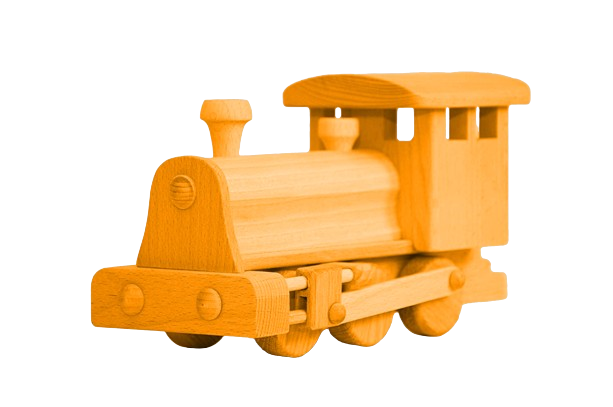
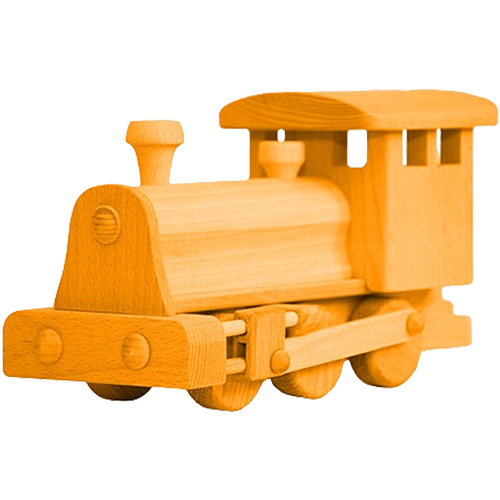
added cart and fixed pictures

diff --git a/script.js b/script.js
@@ -4,8 +4,8 @@ const toyOptions = [
         age: "Toddlers",
         Measure: "3.5H x 7L x 7W.",
         biography: "Soar through imaginative skies with this classic wooden airplane. Handcrafted from sustainable Baltic birch wood with a safe, natural harvest finish and a spinning propeller.",
-        imageURLs: ["imgs/pinkplane.png", "imgs/orangeplane.png", "imgs/purpleplane.png"],
-        price: "$15.99"
+        imageURLs: ["imgs/pinkplane.png", "imgs/orangeplane2.png", "imgs/purpleplane.png"],
+        price: 15.99
     },
     {
         name: "Wooden Train Set",
@@ -13,7 +13,7 @@ const toyOptions = [
         Measure: "Large size (84cm L x 11cm H x 13cm W)",
         biography: "Embark on a charming journey with this beautiful handcrafted wooden train set. Engine and three interchangeable cars boast intricate details made from real beech wood with moving wheels and a fully ecological design",
         imageURLs: ["imgs/pinktrain.png", "imgs/orangetrain.png", "imgs/purpletrain.png"],
-        price: "$15.99"
+        price: 15.99
     },
     {
         name: "Wooden Boat",
@@ -21,7 +21,7 @@ const toyOptions = [
         Measure: "10.5 inch W x 3.5 inch H.",
         biography: "Set sail for bathtub adventures with this adorable wooden boat. Made from solid Maine white pine, this handcrafted toy floats and features rounded edges for safety. Includes two peg lobster people.",
         imageURLs: ["imgs/pinkboat.png", "imgs/redboat.png", "imgs/purpleboat.png"],
-        price: "$15.99"
+        price: 15.99
     },
     {
         name: "Wooden Block Set",
@@ -29,16 +29,19 @@ const toyOptions = [
         Measure: "13” L x 12” W x 2” H",
         biography: "Build creativity and imagination with this high-quality, 72-piece block set. Made from naturally finished and smooth-sanded hardwood blocks, this set comes in a convenient wooden storage crate",
         imageURLs: ["imgs/pinkblocks.png", "imgs/greenblocks.png", "imgs/purpleblocks.png"],
-        price: "$20.00"
+        price: 20.00
     },
     {
         name: "Wooden Car",
         age: "All ages",
         biography: "This heirloom-quality wooden car is a timeless treasure. Handcrafted from domestic and exotic hardwoods with a clear lacquer finish, this unique car will inspire generations of imaginative play. Please note potential choking hazards for small children.",
         imageURLs: ["imgs/pinkcar.png", "imgs/redcar.png", "imgs/purplecar.png"],
-        price: "$9.99"
+        price: 9.99
     },
 ];
+
+let cart = [];
+let total = 0;
 
 function generateToyCards() {
     const toyCardsContainer = document.getElementById('toyCards');
@@ -99,8 +102,8 @@ function generateToyCards() {
                     <p><strong>Age:</strong> ${option.age}</p>
                     <p><strong>Measure:</strong> ${option.Measure}</p>
                     <p><strong>Biography:</strong> ${option.biography}</p>
-                    <p><strong>Price:</strong> ${option.price}</p>
-
+                    <p><strong>Price:</strong> $${option.price.toFixed(2)}</p>
+                    <button class="btn btn-primary" onclick="addToCart(${index})">Add to Cart</button>
                 </div>
             </div>
         `;
@@ -109,7 +112,43 @@ function generateToyCards() {
     });
 }
 
+//adds product to the cart
+function addToCart(index) {
+    const toy = toyOptions[index];
+    //adds toy to array
+    cart.push(toy);
+    total += toy.price;
+    updateCart();
+}
+//update cart display
+function updateCart() {
+    const cartContainer = document.getElementById('cart');
+    cartContainer.innerHTML = '';
+    if (cart.length === 0) {
+        cartContainer.innerHTML = '<p>Your cart is empty.</p>';
+    } else {
+        cart.forEach((item, index) => {
+            const cartItem = document.createElement('div');
+            cartItem.classList.add('cart-item');
+            cartItem.innerHTML = `
+                <span>${item.name} - $${item.price.toFixed(2)}</span>
+                <button class="btn btn-danger btn-sm" onclick="removeFromCart(${index})">Remove</button>
+            `;
+            cartContainer.appendChild(cartItem);
+        });
+    }
+    //update total price
+    document.getElementById('total').textContent = total.toFixed(2);
+}
 
+function removeFromCart(index) {
+    const item = cart[index];
+    total -= item.price;
+    cart.splice(index, 1);
+    updateCart();
+}
+
+window.onload = generateToyCards;
 window.onload = generateToyCards;
 
 const nameArray = [] //Create a list to store names

diff --git a/products.html b/products.html
@@ -43,26 +43,29 @@
                     </ul>
                 </div>
             </div>
-        </nav>
+        </nav> 
         <div class="text-center"> 
-        <h1> Toys </h1>
-            <!-- place navbar here -->
-            <input type="text" id="searchInput">
-<button id="searchButton">Search</button>
-        </header>
-        <main>
-            <div class="container">
-                <div class="row" id="toyCards">
-        <div class="container">
-            <div class="row mb-4">
-                <div class="col-12">
+            <h1> Toys </h1>
+       
                 </div>
+    </header>
+
+    <main>
+        <div class="col-md-4">
+            <div class="container mt-5">
+                <img class="img-fluid1" src="imgs/cart.png">
+                <div id="cart" class="cart">
+                    <p>Your cart is empty.</p>
+                </div>
+                <h3>Total: $<span id="total">0.00</span></h3>
             </div>
-            <div class="row" id="toyCards"></div>
         </div>
-    </main>
-    <div class="container">
-            </div>
+        <div class="container">
+            <div class="row">
+                    <div class="row" id="toyCards">
+                        <!-- Toy cards will be placed here -->
+                    </div>
+                </div>
         </div>
     <footer>
         <!-- Footer content -->

diff --git a/style.css b/style.css
@@ -290,3 +290,25 @@ btn.btn-primary {
   color: rgb(255, 255, 255);
   background-color: coral;
 }
+
+.cart {
+  border: 1px solid #ccc;
+  padding: 20px;
+  background-color: #f9f9f9;
+}
+
+.cart-item {
+  display: flex;
+  justify-content: space-between;
+  margin-bottom: 10px;
+}
+
+img.img-fluid1 {
+  width: 50px;
+  height: 50px;
+padding: right;
+}
+
+h3 {
+  font-size: small;
+}
